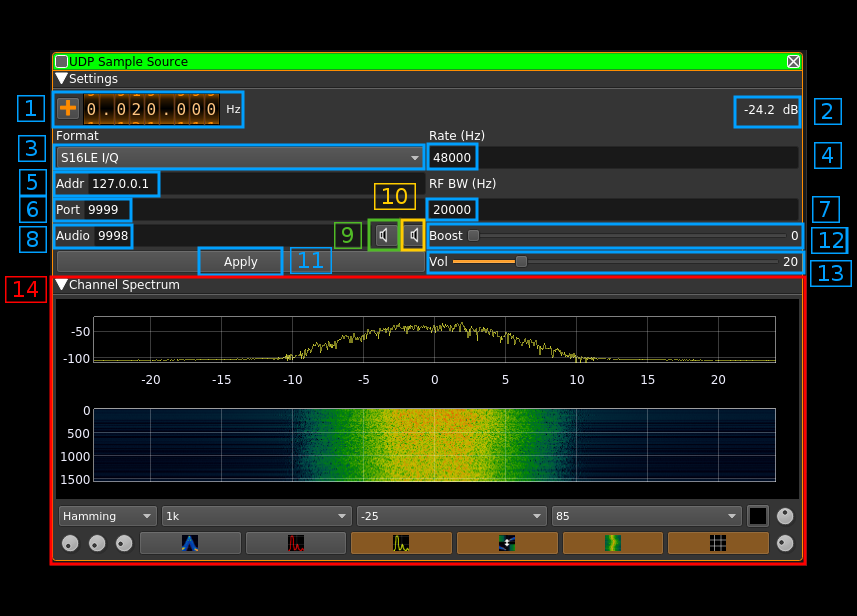
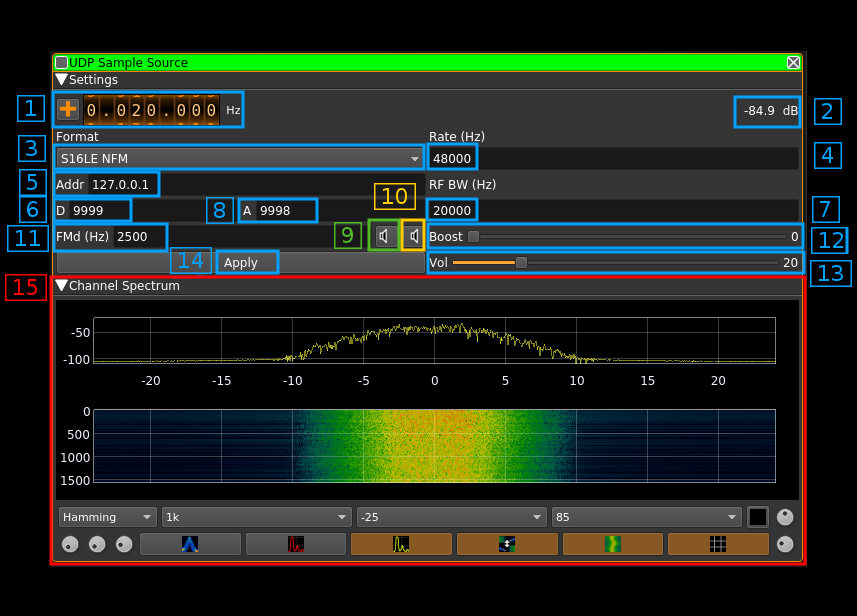
UDP source plugin: updated documentation. Allow FM deviation box only if S16LE NFM format is selected

diff --git a/plugins/channel/udpsrc/udpsrcgui.cpp b/plugins/channel/udpsrc/udpsrcgui.cpp
@@ -224,6 +224,8 @@ UDPSrcGUI::UDPSrcGUI(PluginAPI* pluginAPI, QWidget* parent) :
 	m_threadedChannelizer = new ThreadedSampleSink(m_channelizer, this);
 	DSPEngine::instance()->addThreadedSink(m_threadedChannelizer);
 
+	ui->fmDeviation->setEnabled(false);
+
 	ui->deltaFrequency->setColorMapper(ColorMapper(ColorMapper::ReverseGold));
 	ui->deltaFrequency->setValueRange(7, 0U, 9999999U);
 
@@ -355,15 +357,19 @@ void UDPSrcGUI::applySettings()
 		{
 			case 0:
 				sampleFormat = UDPSrc::FormatSSB;
+				ui->fmDeviation->setEnabled(false);
 				break;
 			case 1:
 				sampleFormat = UDPSrc::FormatNFM;
+				ui->fmDeviation->setEnabled(true);
 				break;
 			case 2:
 				sampleFormat = UDPSrc::FormatS16LE;
+				ui->fmDeviation->setEnabled(false);
 				break;
 			default:
 				sampleFormat = UDPSrc::FormatSSB;
+				ui->fmDeviation->setEnabled(false);
 				break;
 		}
 
@@ -410,6 +416,12 @@ void UDPSrcGUI::on_deltaFrequency_changed(quint64 value)
 
 void UDPSrcGUI::on_sampleFormat_currentIndexChanged(int index)
 {
+	if (index == 1) {
+		ui->fmDeviation->setEnabled(true);
+	} else {
+		ui->fmDeviation->setEnabled(false);
+	}
+
 	ui->applyBtn->setEnabled(true);
 }
 

diff --git a/plugins/channel/udpsrc/readme.md b/plugins/channel/udpsrc/readme.md
@@ -22,9 +22,9 @@ Total power in dB relative to a +/- 1.0 amplitude signal received in the pass ba
 
 Combo box to specify the type of samples that are sent over UDP.
 
-  - `S16LE I/Q`: Raw I/Q samples on signed 16 bits integers with Little Endian layout. Use it with software that accepts I/Q data as input like GNUradio with the `UDP source` block
-  - `S16LE SSB`: AF of SSB demodulated signal as 16 bits signed integers with Little Endian layout. Use it with software that uses a SSB demodulated signal as input i.e. software that is based on the audio output of a SSB radio.
-  - `S16LE NFM`: AF of FM demodulated signal as 16 bits signed integers with Little Endian layout. Use it with software that takes the FM demodulated audio or the discriminator output of a radio as input. Make sure you specify the appropriate signal bandwidth (see 7) according to the AF bandwidth needs.
+  - `S16LE I/Q`: Raw I/Q samples on signed 16 bits integers with Little Endian layout. Use it with software that accepts I/Q data as input like GNUradio with the `UDP source` block. The output is interleaved I and Q samples
+  - `S16LE SSB`: AF of SSB demodulated signal as 16 bits signed integers with Little Endian layout. Use it with software that uses a SSB demodulated signal as input i.e. software that is based on the audio output of a SSB radio. The output is interleaved samples of the USB (on real part) and LSB signals (on imaginary part).
+  - `S16LE NFM`: AF of FM demodulated signal as 16 bits signed integers with Little Endian layout. Use it with software that takes the FM demodulated audio or the discriminator output of a radio as input. Make sure you specify the appropriate signal bandwidth (see 7) according to the AF bandwidth needs. The output is interleaved samples of NFM samples (on real part) and zeros (on imaginary part).
   
 <h3>4: Signal sample rate</h3>
 
@@ -54,9 +54,9 @@ This turns on or off the audio samples feedback
 
 This toggles between mono or stereo audio feedback
 
-<h3>11: Apply (validation) button</h3>
+<h3>11: FM deviation</h3>
 
-When any item of connection or stream configuration changes this button becomes active to make the changes effective when pressed. 
+This is the FM deviation in Hz for NFM demodulated samples. Therefore it is active only if `S16LE NFM` is selected as the sample format. A positive deviation of this amount from the central carrier will result in a sample output value of 32767 (0x7FFF) corresponding to the +1.0 real value. A negative deviation of this amount from the central carrier will result in a sample output value of -32768 (0x8000) corresponding to the -1.0 real value.  
 
 <h3>12: Boost</h3>
 
@@ -66,7 +66,11 @@ Amplify the signal being sent over UDP from the original. There are 4 levels of 
 
 Volume of the audio feedback (when used).
 
-<h3>14: Spectrum display</h3>
+<h3>14: Apply (validation) button</h3>
+
+When any item of connection or stream configuration changes this button becomes active to make the changes effective when pressed. 
+
+<h3>15: Spectrum display</h3>
 
 This is the spectrum display of the channel signal after bandpass filtering. Please refer to the Spectrum display description for details. 
 
